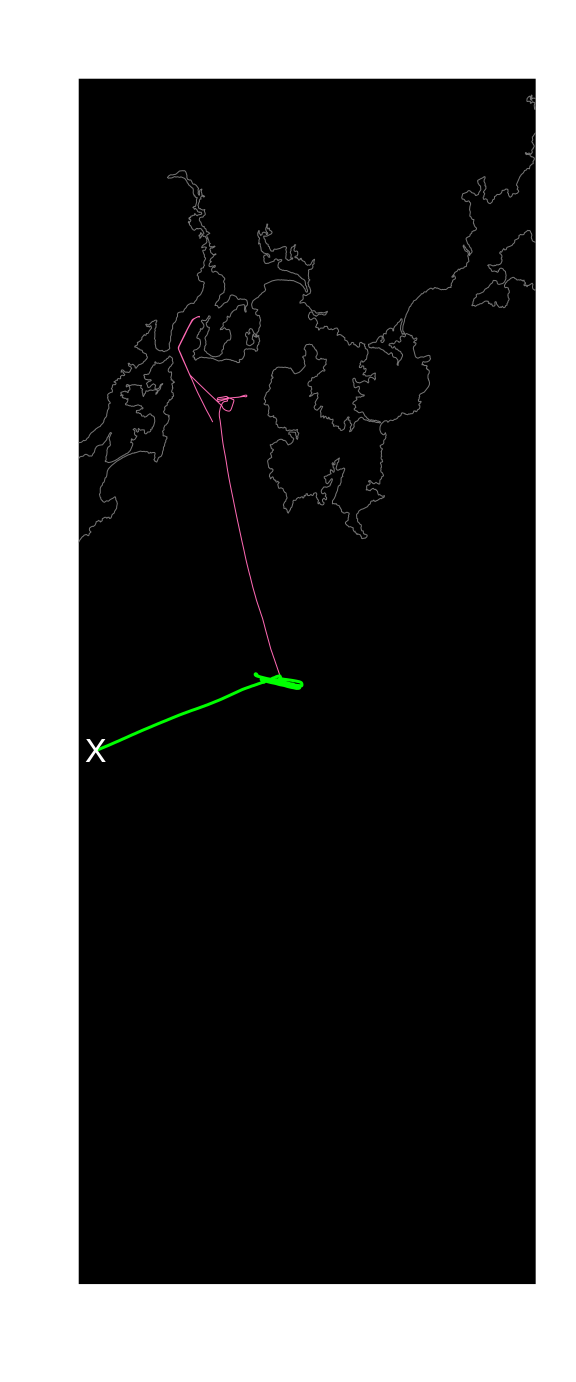
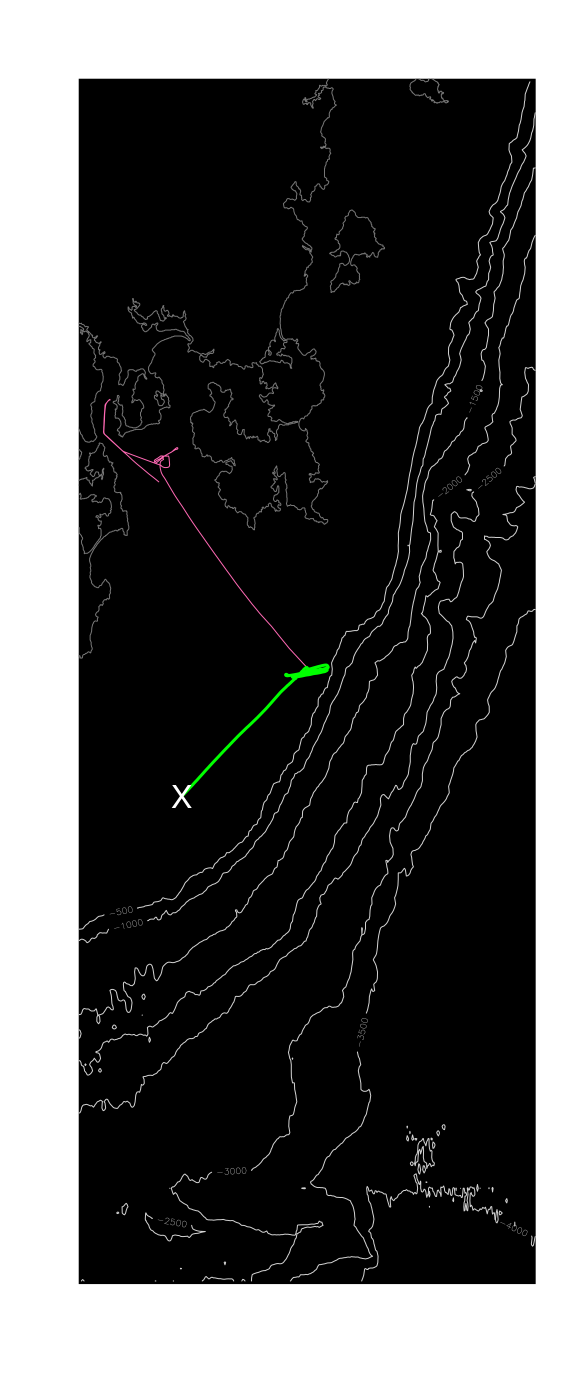
fix that zoom in map

diff --git a/README.md b/README.md
@@ -20,6 +20,7 @@ First, a modified map of the subsequent one to put the ship in the
 centre. (we’ll fix this up)
 
     #> [1] "2021-12-23 05:00:00 UTC" "2024-07-06 12:56:00 UTC"
+    #> terra 1.7.78
 
 ![](man/figures/README-pivot-map-1.png)<!-- -->
 
@@ -75,19 +76,34 @@ plot(claims, add = TRUE)
 ``` r
 
 map <- terra::vect("data-raw/CGAZ.fgb")
-plot(tail(ptrack, 10000), type = "n", asp = 1, axes = F, xlab = "", ylab = "")
+
+
+
+ptrack0 <- terra::project(as.matrix(track), to = pcrs0, from = pcrs)
+plot(tail(ptrack0, 10000), type = "n", asp = 1, axes = F, xlab = "", ylab = "")
 title(paste0(as.Date(range(dat$datetime)),collapse = ","), col.main = "white")
 #plotRGB(r, add = TRUE)
-ximage::ximage(r, add = TRUE)
-lines(tail(ptrack, 4000), col = "hotpink")
-plot(terra::project(map, pcrs), add = TRUE, border = "#777777")
+ximage::ximage(r0, add = TRUE)
+lines(tail(ptrack0, 4000), col = "hotpink")
+plot(terra::project(map, pcrs0), add = TRUE, border = "#777777")
 
-plot(claims, add = TRUE)
+plot(terra::project(claims, pcrs0), add = TRUE)
+pl[c("X", "Y")] <- terra::project(cbind(pl$x, pl$y), to = pcrs0, from = "OGC:CRS84")
 points(pl$X, pl$Y, pch = 19, col = "hotpink", cex = 1)
 
-pt_recent <- tail(ptrack, 1000)
+pt_recent <- tail(ptrack0, 1000)
 lines(pt_recent, lwd = 3, col = "green")
 points(tail(pt_recent, 1), pch = "X", cex = 2, col = "white")
+rr <- diff(par("usr"))[c(1, 3)]
+if (rr[1] > rr[2]) {
+  dm <- as.integer(c(1, rr[2]/rr[1]) * 1024)
+} else {
+  dm <- as.integer(c(1, rr[1]/rr[2]) * 1024)
+}
+cont <- terra::project(terra::rast("/vsicurl/https://gebco2023.s3.valeria.science/gebco_2023_land_cog.tif"), 
+               terra::rast(terra::ext(par("usr")), ncols = dm[1], nrows = dm[2], crs = pcrs0))
+cont[cont > -10] <- NA
+contour(cont, add = TRUE, col = "lightgrey", breaks = quantile(na.omit(values(cont)[,1]), seq(0.1, 1, by = 10)))
 ```
 
 ![](man/figures/README-example-2.png)<!-- -->
